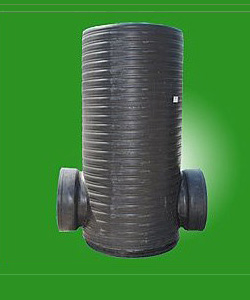
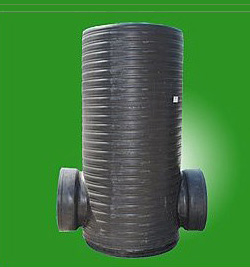
Make ugly wanfeng pics less ugly

Changed region(s): [[0.0, 0.0, 1.0, 0.9888], [0.644, 0.7491, 0.672, 0.779], [0.644, 0.6592, 0.672, 0.6891]]

diff --git a/src/App.tsx b/src/App.tsx
@@ -32,7 +32,7 @@ const Wanfeng: React.FC = () => {
     <div style={{padding: "16px"}}>
       <div className="tile is-ancestor">
         <div className="tile is-parent is-2">
-          <div className="tile is-child" style={{backgroundImage: "url(/wf/pvc.jpg)", backgroundSize: "cover"}}></div>
+          <div className="tile is-child" style={{backgroundImage: "url(/wf/pvc.jpg)", backgroundColor:"#2d9325", backgroundSize: "contain", backgroundRepeat:"no-repeat", backgroundPosition: "center"}}></div>
         </div>
         <div className="tile is-parent is-3">
           <article className="tile is-child notification">
@@ -50,7 +50,7 @@ const Wanfeng: React.FC = () => {
 
       <div className="tile is-ancestor">
         <div className="tile is-parent is-2">
-          <div className="tile is-child" style={{backgroundImage: "url(/wf/hdpe.jpg)", backgroundSize: "cover"}}></div>
+          <div className="tile is-child" style={{backgroundImage: "url(/wf/hdpe.jpg)", backgroundColor:"#2d9325", backgroundSize: "contain", backgroundRepeat:"no-repeat", backgroundPosition: "center"}}></div>
         </div>
         <div className="tile is-parent is-3">
           <article className="tile is-child notification">
@@ -68,7 +68,7 @@ const Wanfeng: React.FC = () => {
 
       <div className="tile is-ancestor">
         <div className="tile is-parent is-2">
-          <div className="tile is-child" style={{backgroundImage: "url(/wf/upvc.jpg)", backgroundSize: "cover"}}></div>
+          <div className="tile is-child" style={{backgroundImage: "url(/wf/upvc.jpg)", backgroundColor:"#2d9325", backgroundSize: "contain", backgroundRepeat:"no-repeat", backgroundPosition: "center"}}></div>
         </div>
         <div className="tile is-parent is-3">
           <article className="tile is-child notification">
@@ -86,7 +86,7 @@ const Wanfeng: React.FC = () => {
 
       <div className="tile is-ancestor">
         <div className="tile is-parent is-2">
-          <div className="tile is-child" style={{backgroundImage: "url(/wf/pvcu.jpg)", backgroundSize: "cover"}}></div>
+          <div className="tile is-child" style={{backgroundImage: "url(/wf/pvcu.jpg)", backgroundColor:"#2d9325", backgroundSize: "contain", backgroundRepeat:"no-repeat", backgroundPosition: "center"}}></div>
         </div>
         <div className="tile is-parent is-3">
           <article className="tile is-child notification">
@@ -103,7 +103,7 @@ const Wanfeng: React.FC = () => {
 
       <div className="tile is-ancestor">
         <div className="tile is-parent is-2">
-          <div className="tile is-child" style={{backgroundImage: "url(/wf/jcj.jpg)", backgroundSize: "cover"}}></div>
+          <div className="tile is-child" style={{backgroundImage: "url(/wf/jcj.jpg)", backgroundColor:"#2d9325", backgroundSize: "contain", backgroundRepeat:"no-repeat", backgroundPosition: "center"}}></div>
         </div>
         <div className="tile is-parent is-3">
           <article className="tile is-child notification">
@@ -121,7 +121,7 @@ const Wanfeng: React.FC = () => {
 
       <div className="tile is-ancestor">
         <div className="tile is-parent is-2">
-          <div className="tile is-child" style={{backgroundImage: "url(/wf/perq.jpg)", backgroundSize: "cover"}}></div>
+          <div className="tile is-child" style={{backgroundImage: "url(/wf/perq.jpg)", backgroundColor:"#2d9325", backgroundSize: "contain", backgroundRepeat:"no-repeat", backgroundPosition: "center"}}></div>
         </div>
         <div className="tile is-parent is-3">
           <article className="tile is-child notification">
@@ -138,7 +138,7 @@ const Wanfeng: React.FC = () => {
 
       <div className="tile is-ancestor">
         <div className="tile is-parent is-2">
-          <div className="tile is-child" style={{backgroundImage: "url(/wf/pejs.jpg)", backgroundSize: "cover"}}></div>
+          <div className="tile is-child" style={{backgroundImage: "url(/wf/pejs.jpg)", backgroundColor:"#2d9325", backgroundSize: "contain", backgroundRepeat:"no-repeat", backgroundPosition: "center"}}></div>
         </div>
         <div className="tile is-parent is-3">
           <article className="tile is-child notification">
@@ -156,7 +156,7 @@ const Wanfeng: React.FC = () => {
 
       <div className="tile is-ancestor">
         <div className="tile is-parent is-2">
-          <div className="tile is-child" style={{backgroundImage: "url(/wf/xcg.jpg)", backgroundSize: "cover"}}></div>
+          <div className="tile is-child" style={{backgroundImage: "url(/wf/xcg.jpg)", backgroundColor:"#2d9325", backgroundSize: "contain", backgroundRepeat:"no-repeat", backgroundPosition: "center"}}></div>
         </div>
         <div className="tile is-parent is-3">
           <article className="tile is-child notification">
@@ -174,7 +174,7 @@ const Wanfeng: React.FC = () => {
 
       <div className="tile is-ancestor">
         <div className="tile is-parent is-2">
-          <div className="tile is-child" style={{backgroundImage: "url(/wf/xylxg.jpg)", backgroundSize: "cover"}}></div>
+          <div className="tile is-child" style={{backgroundImage: "url(/wf/xylxg.jpg)", backgroundColor:"#2d9325", backgroundSize: "contain", backgroundRepeat:"no-repeat", backgroundPosition: "center"}}></div>
         </div>
         <div className="tile is-parent is-3">
           <article className="tile is-child notification">
@@ -192,7 +192,7 @@ const Wanfeng: React.FC = () => {
 
       <div className="tile is-ancestor">
         <div className="tile is-parent is-2">
-          <div className="tile is-child" style={{backgroundImage: "url(/wf/pvcdl.jpg)", backgroundSize: "cover"}}></div>
+          <div className="tile is-child" style={{backgroundImage: "url(/wf/pvcdl.jpg)", backgroundColor:"#2d9325", backgroundSize: "contain", backgroundRepeat:"no-repeat", backgroundPosition: "center"}}></div>
         </div>
         <div className="tile is-parent is-3">
           <article className="tile is-child notification">
